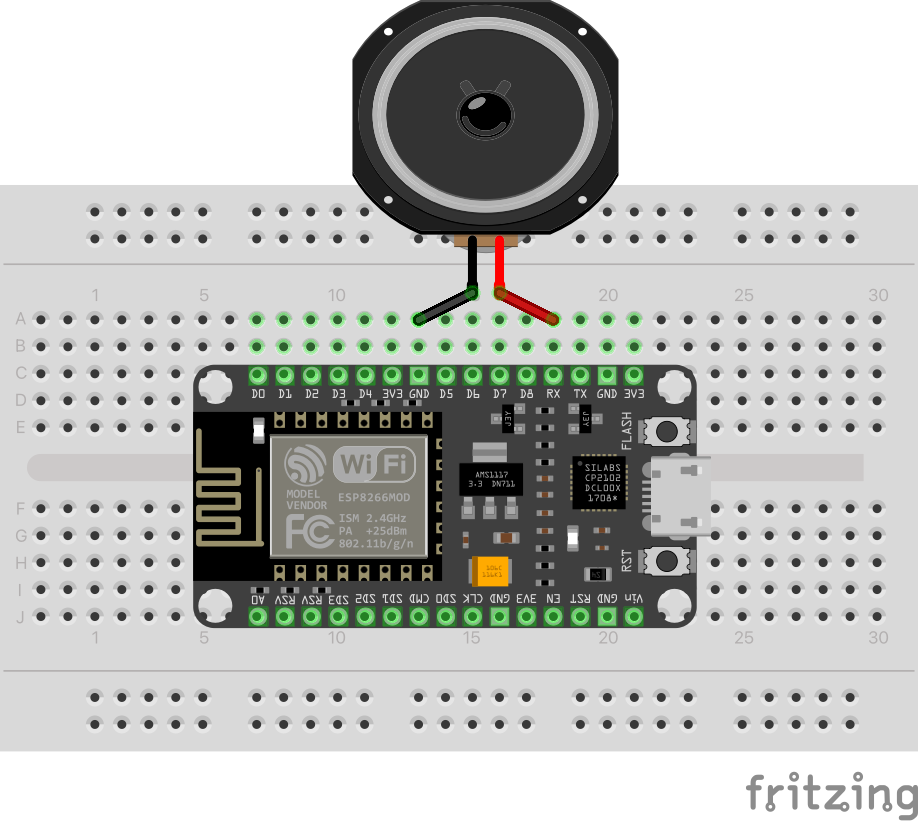
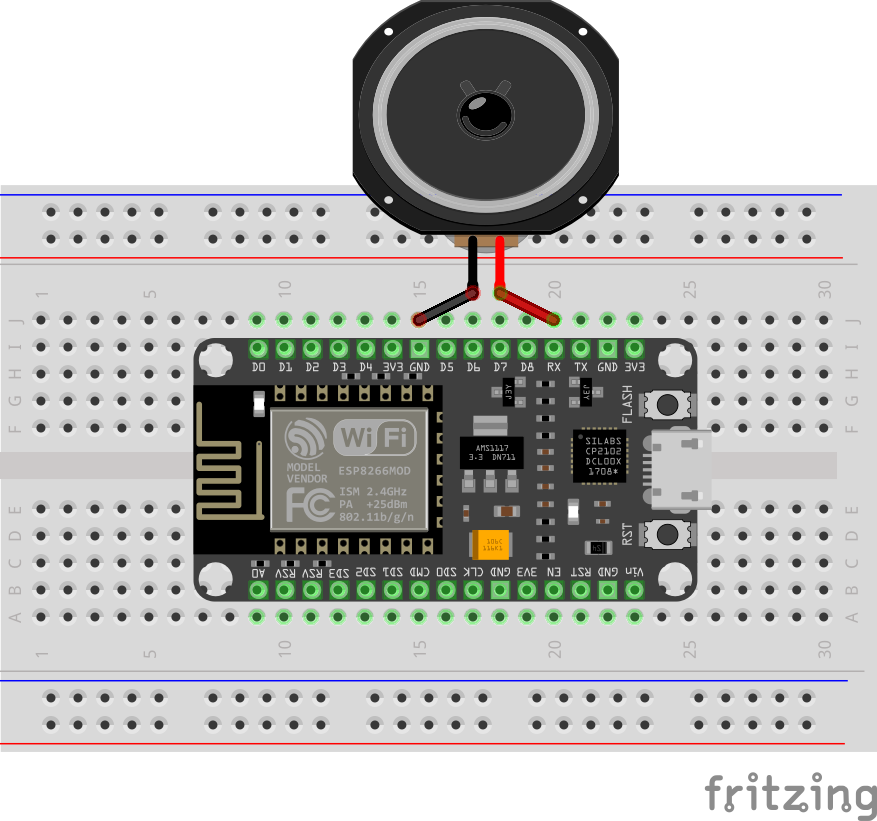
Update images

diff --git a/README.md b/README.md
@@ -50,9 +50,8 @@ https://github.com/nodemcu/nodemcu-flasher
 Download Release: [Win32](https://github.com/nodemcu/nodemcu-flasher/blob/master/Win32/Release/ESP8266Flasher.exe) or [Win64](https://github.com/nodemcu/nodemcu-flasher/blob/master/Win64/Release/ESP8266Flasher.exe).
 
 
-# Schematic
-<img src="https://raw.githubusercontent.com/renat2985/esp8266-Radio/master/tutorial/NodeMCU_schematic.png" width="400px">
-<img src="https://raw.githubusercontent.com/renat2985/esp8266-Radio/master/tutorial/schematic.png" width="400px">
+# Schematic NodeMCU / Wemos / ESP8266 01
+<img src="https://raw.githubusercontent.com/renat2985/esp8266-Radio/master/tutorial/NodeMCU_schematic.png" height="200px"> <img src="https://raw.githubusercontent.com/renat2985/esp8266-Radio/master/tutorial/Wemos_schematic.png" height="200px"> <img src="https://raw.githubusercontent.com/renat2985/esp8266-Radio/master/tutorial/esp8266_schematic.png" height="200px">
 <img src="https://raw.githubusercontent.com/renat2985/esp8266-Radio/master/tutorial/3.5.jpg" width="400px">
 
 
